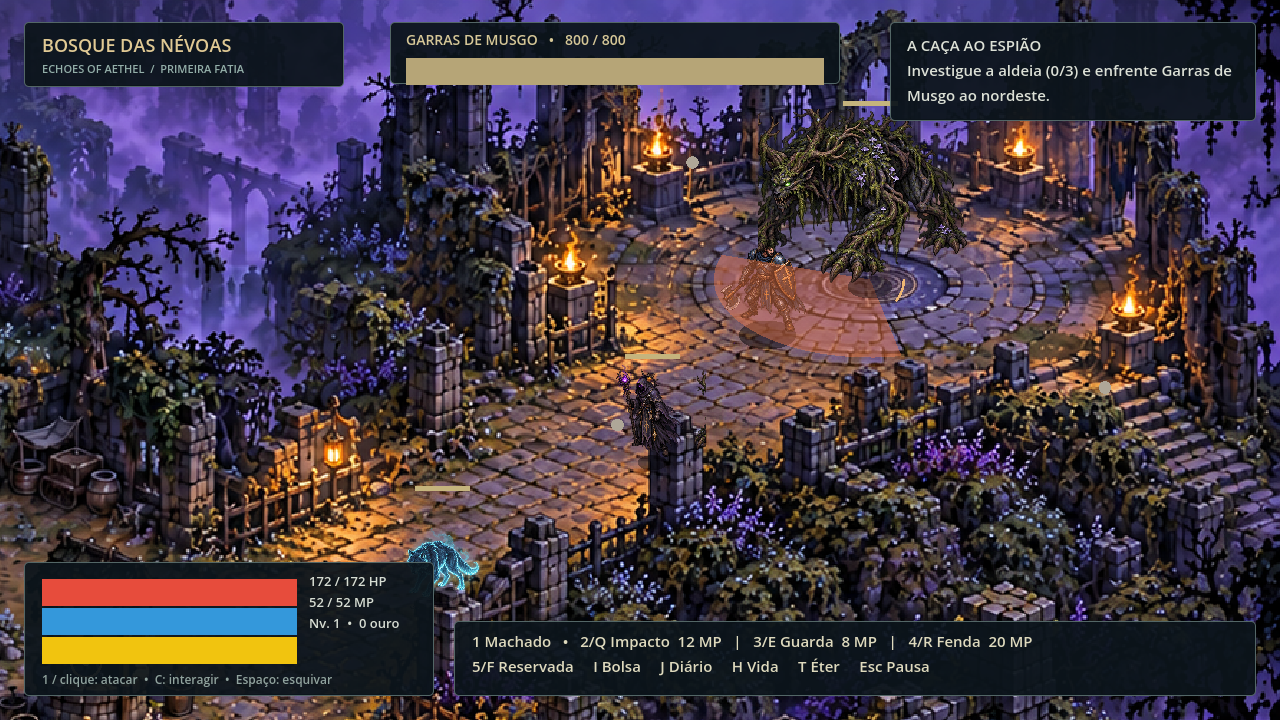
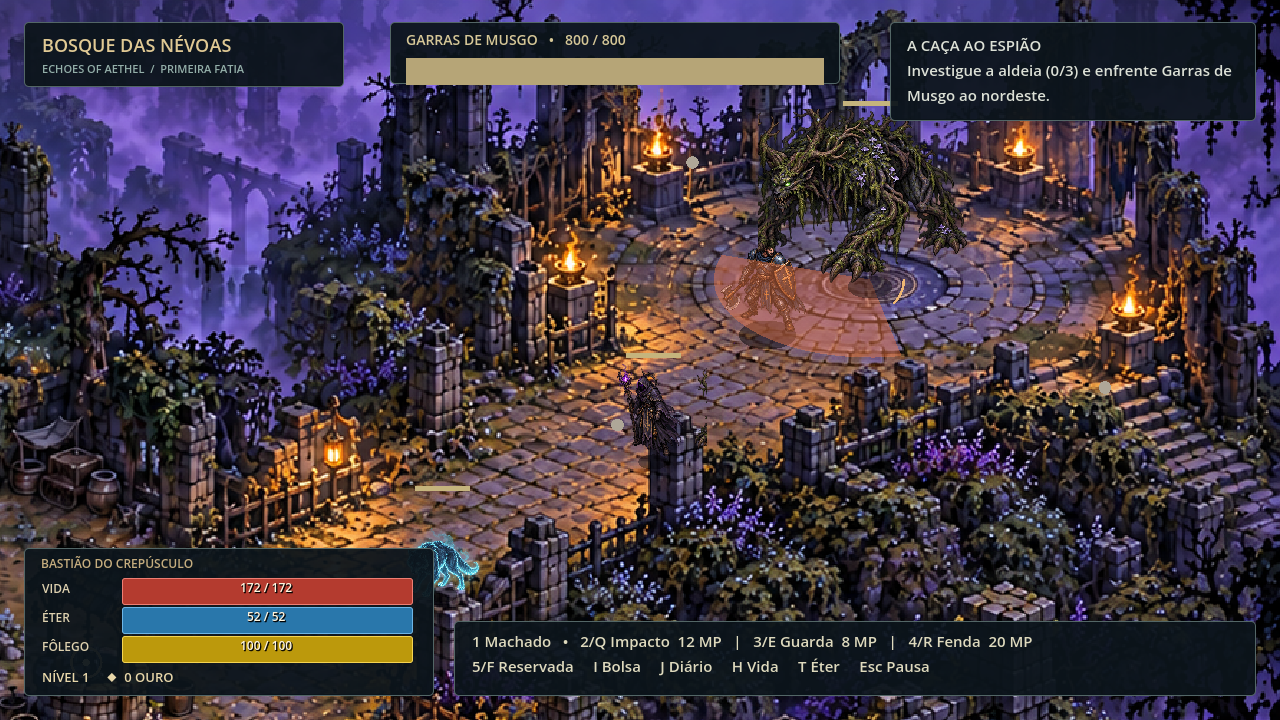
feat: refine resource HUD and add hub merchant

Changed region(s): [[0.0, 0.7639, 0.3438, 0.9472], [0.4688, 0.4889, 0.5312, 0.6417]]

diff --git a/README.md b/README.md
@@ -12,7 +12,7 @@ O Bastião sai da Cidadela dos Últimos para investigar a aldeia no Bosque das N
 
 ![Captura real de um golpe de machado no Bosque](docs/media/runtime/attack-gameplay.png)
 
-Os cenários e sprites originais foram criados para esta versão tomando [esta imagem conceitual](docs/media/concepts/aethel-visual-target.png) como referência de atmosfera. A composição dos mapas privilegia caminhos legíveis, profundidade isométrica, ruínas góticas e itens materiais como nos RPGs táticos e ARPGs clássicos. [Proveniência da arte](docs/media/runtime-art.md).
+Os cenários e sprites originais foram criados para esta versão tomando [esta imagem conceitual](docs/media/concepts/aethel-visual-target.png) como referência de atmosfera. A composição dos mapas privilegia caminhos legíveis, profundidade isométrica e ruínas góticas. **Path of Exile 2** é a referência principal para a próxima etapa de combate e habilidades; o conteúdo e as regras de Aethel permanecem próprios. [Proveniência da arte](docs/media/runtime-art.md).
 
 ## Jogar
 
@@ -42,7 +42,11 @@ No editor, abra `client/godot/project.godot` e pressione **F5**. O projeto usa o
 
 O slot 5/F está reservado. A Cidadela é uma área segura: lá, ataques e habilidades de combate ficam bloqueados e mostram um aviso. Atravesse o portão leste para lutar no Bosque. A bolsa mostra itens em grade, equipamento, peso, capacidade e ações de usar, equipar ou descartar. Excedentes de recompensas aguardam retirada na Cidadela.
 
+Lyra e Sera atendem na Cidadela: aproxime-se e pressione **C** para comprar Poção de Vida (10 ouro) ou Frasco de Éter (12 ouro). Ouro vem dos encontros; compras recusadas por falta de ouro ou espaço não gastam nada. O HUD mostra Vida, Éter e Fôlego em medidores com valores numéricos.
+
 ![Captura real da bolsa de itens](docs/media/runtime/inventory-gameplay.png)
+
+![Captura real do comércio na Cidadela](docs/media/runtime/merchant-gameplay.png)
 
 ## Conteúdo e limites
 
@@ -58,7 +62,7 @@ Da raiz do repositório:
 bash tools/run_tests.sh
 ```
 
-No Windows, também é possível executar `tools/run_tests.ps1 -Godot <caminho-para-godot.exe>`. A validação local desta branch aprovou **14 suítes e 271 verificações** em Godot 4.6, incluindo um fluxo de integração da jornada. A exportação Windows usa `tools/export_windows.ps1` com os templates oficiais 4.6 instalados em `.godot-tools/`. O workflow de CI importa, testa e exporta automaticamente em pushes e PRs.
+No Windows, também é possível executar `tools/run_tests.ps1 -Godot <caminho-para-godot.exe>`. A validação local desta branch aprovou **15 suítes e 289 verificações** em Godot 4.6, incluindo um fluxo de integração da jornada e compras. A exportação Windows usa `tools/export_windows.ps1` com os templates oficiais 4.6 instalados em `.godot-tools/`. O workflow de CI importa, testa e exporta automaticamente em pushes e PRs. Capturas de QA exigem `-- --test-harness` para isolar o save.
 
 As capturas acima são do executável Godot rodando localmente. Elas verificam renderização, mas não substituem um playtest humano de navegação, dificuldade e desempenho em diferentes PCs.
 

diff --git a/docs/engineering/project-structure.md b/docs/engineering/project-structure.md
@@ -131,7 +131,7 @@ Ao criar um ID novo, registre-o nesta tabela no mesmo PR.
 
 ## 6. Estado de implementação (atualize ao concluir cada cartão)
 
-Atualizado para `0.2.0-dev`. As suítes de teste estão distribuídas entre os módulos; o total validado é 14 suítes e 271 verificações.
+Atualizado para `0.2.0-dev`. As suítes de teste estão distribuídas entre os módulos; o total validado é 15 suítes e 289 verificações.
 
 | Módulo | Estado | Verificações | Cartão |
 |---|---|---|---|
@@ -144,16 +144,17 @@ Atualizado para `0.2.0-dev`. As suítes de teste estão distribuídas entre os m
 | Catálogo de conteúdo | implementado | 9 | T00 |
 | Guarda e habilidades | implementado | 10 | T01 |
 | Inimigos Lobo/Cultista | implementado | 9 | T02 |
-| Mapas, zonas, retorno e morte | implementado | 33 integração | T03 |
-| Garras de Musgo | implementado | 33 integração | T04 |
+| Mapas, zonas, retorno e morte | implementado | 37 integração | T03 |
+| Garras de Musgo | implementado | 37 integração | T04 |
 | Inventário e peso | implementado | 20 | T05 |
+| Comércio no hub | implementado; Lyra/Sera vendem consumíveis | 14 + 37 integração | — |
 | Save v2 e migração | implementado | 9 | T06 |
 | Loot e XP atômicos | implementado | 26 | T07 |
-| Quest `act1.spy_hunt` | implementado | 26 + 33 integração | T08 |
+| Quest `act1.spy_hunt` | implementado | 26 + 37 integração | T08 |
 | Diálogos e NPCs | implementado | 15 UI | T09 |
 | HUD, menus e áudio mínimo | implementado | 15 UI | T10 |
-| Consequência local no hub | implementado | 33 integração | T11 |
-| CI e export Windows | implementado; playtest humano pendente | 14 suítes + smoke | T12 |
+| Consequência local no hub | implementado | 37 integração | T11 |
+| CI e export Windows | implementado; playtest humano pendente | 15 suítes + smoke | T12 |
 
 ## 7. Divergências entre documentos e como foram resolvidas
 

diff --git a/docs/engineering/next-combat-direction.md b/docs/engineering/next-combat-direction.md
@@ -1,0 +1,7 @@
+# Próxima etapa: combate e habilidades
+
+Em 14/10/2026 o diretor corrigiu a referência principal do jogo para **Path of Exile 2** e escolheu priorizar combate e habilidades. Isso orienta sensação, clareza e profundidade da próxima etapa; não importa sistemas, ativos, nomes ou números daquele jogo. Os contratos e decisões existentes de Aethel continuam valendo até serem alterados explicitamente.
+
+Primeiro, medir o combate atual em gameplay: tempo entre comando e impacto, duração da recuperação, leitura da antecipação inimiga, resposta da Guarda, janela de esquiva e percepção de custo de MP. Use captura em movimento e teste manual com Lobo, Cultista e Garras; os testes headless verificam regras, mas não sensação. Depois, escolher uma interação concreta entre duas habilidades do Bastião e registrá-la como conteúdo original, com custos em `experimental-values.md`, teste de dano/recursos e confirmação visual. Evite acrescentar dezenas de efeitos antes de acertar esse ciclo curto.
+
+Os textos de referência enviados sobre cenário e personagens recomendam inspeção antes de configurar arte. O runtime atual é Godot 4.6 GL Compatibility em 1280×720; `actors_atlas.png`, `bastion_walk.png` e `bastion_attack.png` medem 1254×1254, enquanto o Bastião é desenhado em cerca de 94×94 pixels na tela (108×108 no ataque) por `presentation/bastion_visual.gd`. São ilustrações pintadas reduzidas, não uma folha de pixels 1:1. Portanto, testar novo personagem nessa escala real antes de fixar canvas, outline, detalhe ou filtro. Não aplicar preset de PixelLab nem efeitos de luz/névoa em massa sem comparação visual e custo medido.

diff --git a/CHANGELOG.md b/CHANGELOG.md
@@ -2,13 +2,15 @@
 
 ## 0.2.0-dev — 2026-10-13
 
+- Atualização de 14/10: medidores de Vida, Éter e Fôlego com molduras e valores; compras no hub com Lyra e Sera (10/12 ouro), débito/entrega atômicos e proteção contra repetição. Capturas de QA agora exigem slot de teste isolado. Validação ampliada para 15 suítes / 289 verificações.
+
 - Primeira jornada jogável: Cidadela, Bosque, três inimigos, Garras de Musgo, quest com duas escolhas, diálogo, consequência no hub e retorno seguro.
 - Fórmula de dano e atributos do Bastião, guarda, três habilidades, regeneração, inventário de 60 posições, equipamento, consumíveis, loot e XP.
 - Save de conteúdo v2 com migração de v1, backup, recompensas excedentes recuperáveis e testes de recarga.
 - Mapas, sprites e ícones originais em arte pintada de fantasia sombria, com grade de itens e capturas reais do Godot no README. HP, MP e stamina receberam a paleta vermelho, azul e amarelo.
 - Animações de quatro quadros para caminhada e machado, efeitos visíveis de golpe, Fenda, Guarda e esquiva. Clique esquerdo/direito como aliases de ataque/Impacto; aviso explica o bloqueio de combate na Cidadela.
 - Menu inicial, pausa, controles, opções, diário, HUD e sons simples sintetizados.
-- 14 suítes / 271 verificações aprovadas localmente em Godot 4.6. Export Windows gerado e inicializado por 120 quadros no smoke. CI configurado para testes e export.
+- Export Windows gerado e inicializado por 120 quadros no smoke. CI configurado para testes e export.
 - Playtest humano, animação, áudio final, balanceamento e campanha completa permanecem pendentes.
 
 ## 0.1.0-dev — 2026-10-13

diff --git a/docs/engineering/aseprite-asset-workflow.md b/docs/engineering/aseprite-asset-workflow.md
@@ -2,6 +2,6 @@
 
 Aseprite é a ferramenta de edição para os próximos sprites, ícones e animações em pixels. Salve o arquivo-fonte `.aseprite` no repositório e exporte as sprite sheets `.png` usadas pelo Godot. Registre dimensões do quadro, origem, ordem dos quadros e nomes das animações; mantenha transparência real e confira o alinhamento do personagem em movimento, ataque e guarda.
 
-Os PNGs pintados atuais são assets originais gerados para a fatia jogável; não existem fontes `.aseprite` para eles. A proveniência está em `docs/media/runtime-art.md`. Uma edição futura no Aseprite deve acrescentar o fonte correspondente e atualizar esse registro. Não reutilize sprites de Diablo II ou Final Fantasy Tactics: essas obras servem apenas como referência de clima e legibilidade.
+Os PNGs pintados atuais são assets originais gerados para a fatia jogável; não existem fontes `.aseprite` para eles. A proveniência está em `docs/media/runtime-art.md`. Uma edição futura no Aseprite deve acrescentar o fonte correspondente e atualizar esse registro. A referência de combate atual é Path of Exile 2; não reutilize seus sprites, nomes ou interface.
 
 Ao trocar uma folha de sprites, capture no jogo pelo menos caminhada, ataque e inventário. Confira que a animação corresponde ao hitbox e que os ícones continuam legíveis na interface.

diff --git a/docs/media/runtime-art.md b/docs/media/runtime-art.md
@@ -11,6 +11,6 @@ As seis imagens em `client/godot/assets/painted/` foram geradas para Echoes of A
 | `bastion_walk.png` | quatro quadros de caminhada do Bastião |
 | `bastion_attack.png` | quatro quadros de ataque com machado |
 
-O código seleciona regiões dos atlas em tempo de renderização; os PNGs permanecem intactos. Os arquivos em [runtime/](runtime/) são **capturas reais do Godot** desta versão e mostram Cidadela, Bosque, arena, ataque e bolsa. As três imagens em [concepts/](concepts/) continuam sendo apenas referências de direção.
+O código seleciona regiões dos atlas em tempo de renderização; os PNGs permanecem intactos. Os arquivos em [runtime/](runtime/) são **capturas reais do Godot** desta versão e mostram Cidadela, Bosque, arena, ataque, bolsa e comércio. As três imagens em [concepts/](concepts/) continuam sendo apenas referências de direção.
 
 Os tons de interface e ataque são sintetizados em `ui/hud/hud.gd` e ainda precisam de composição e mixagem próprias. A fonte é o fallback fornecido pela engine Godot.
